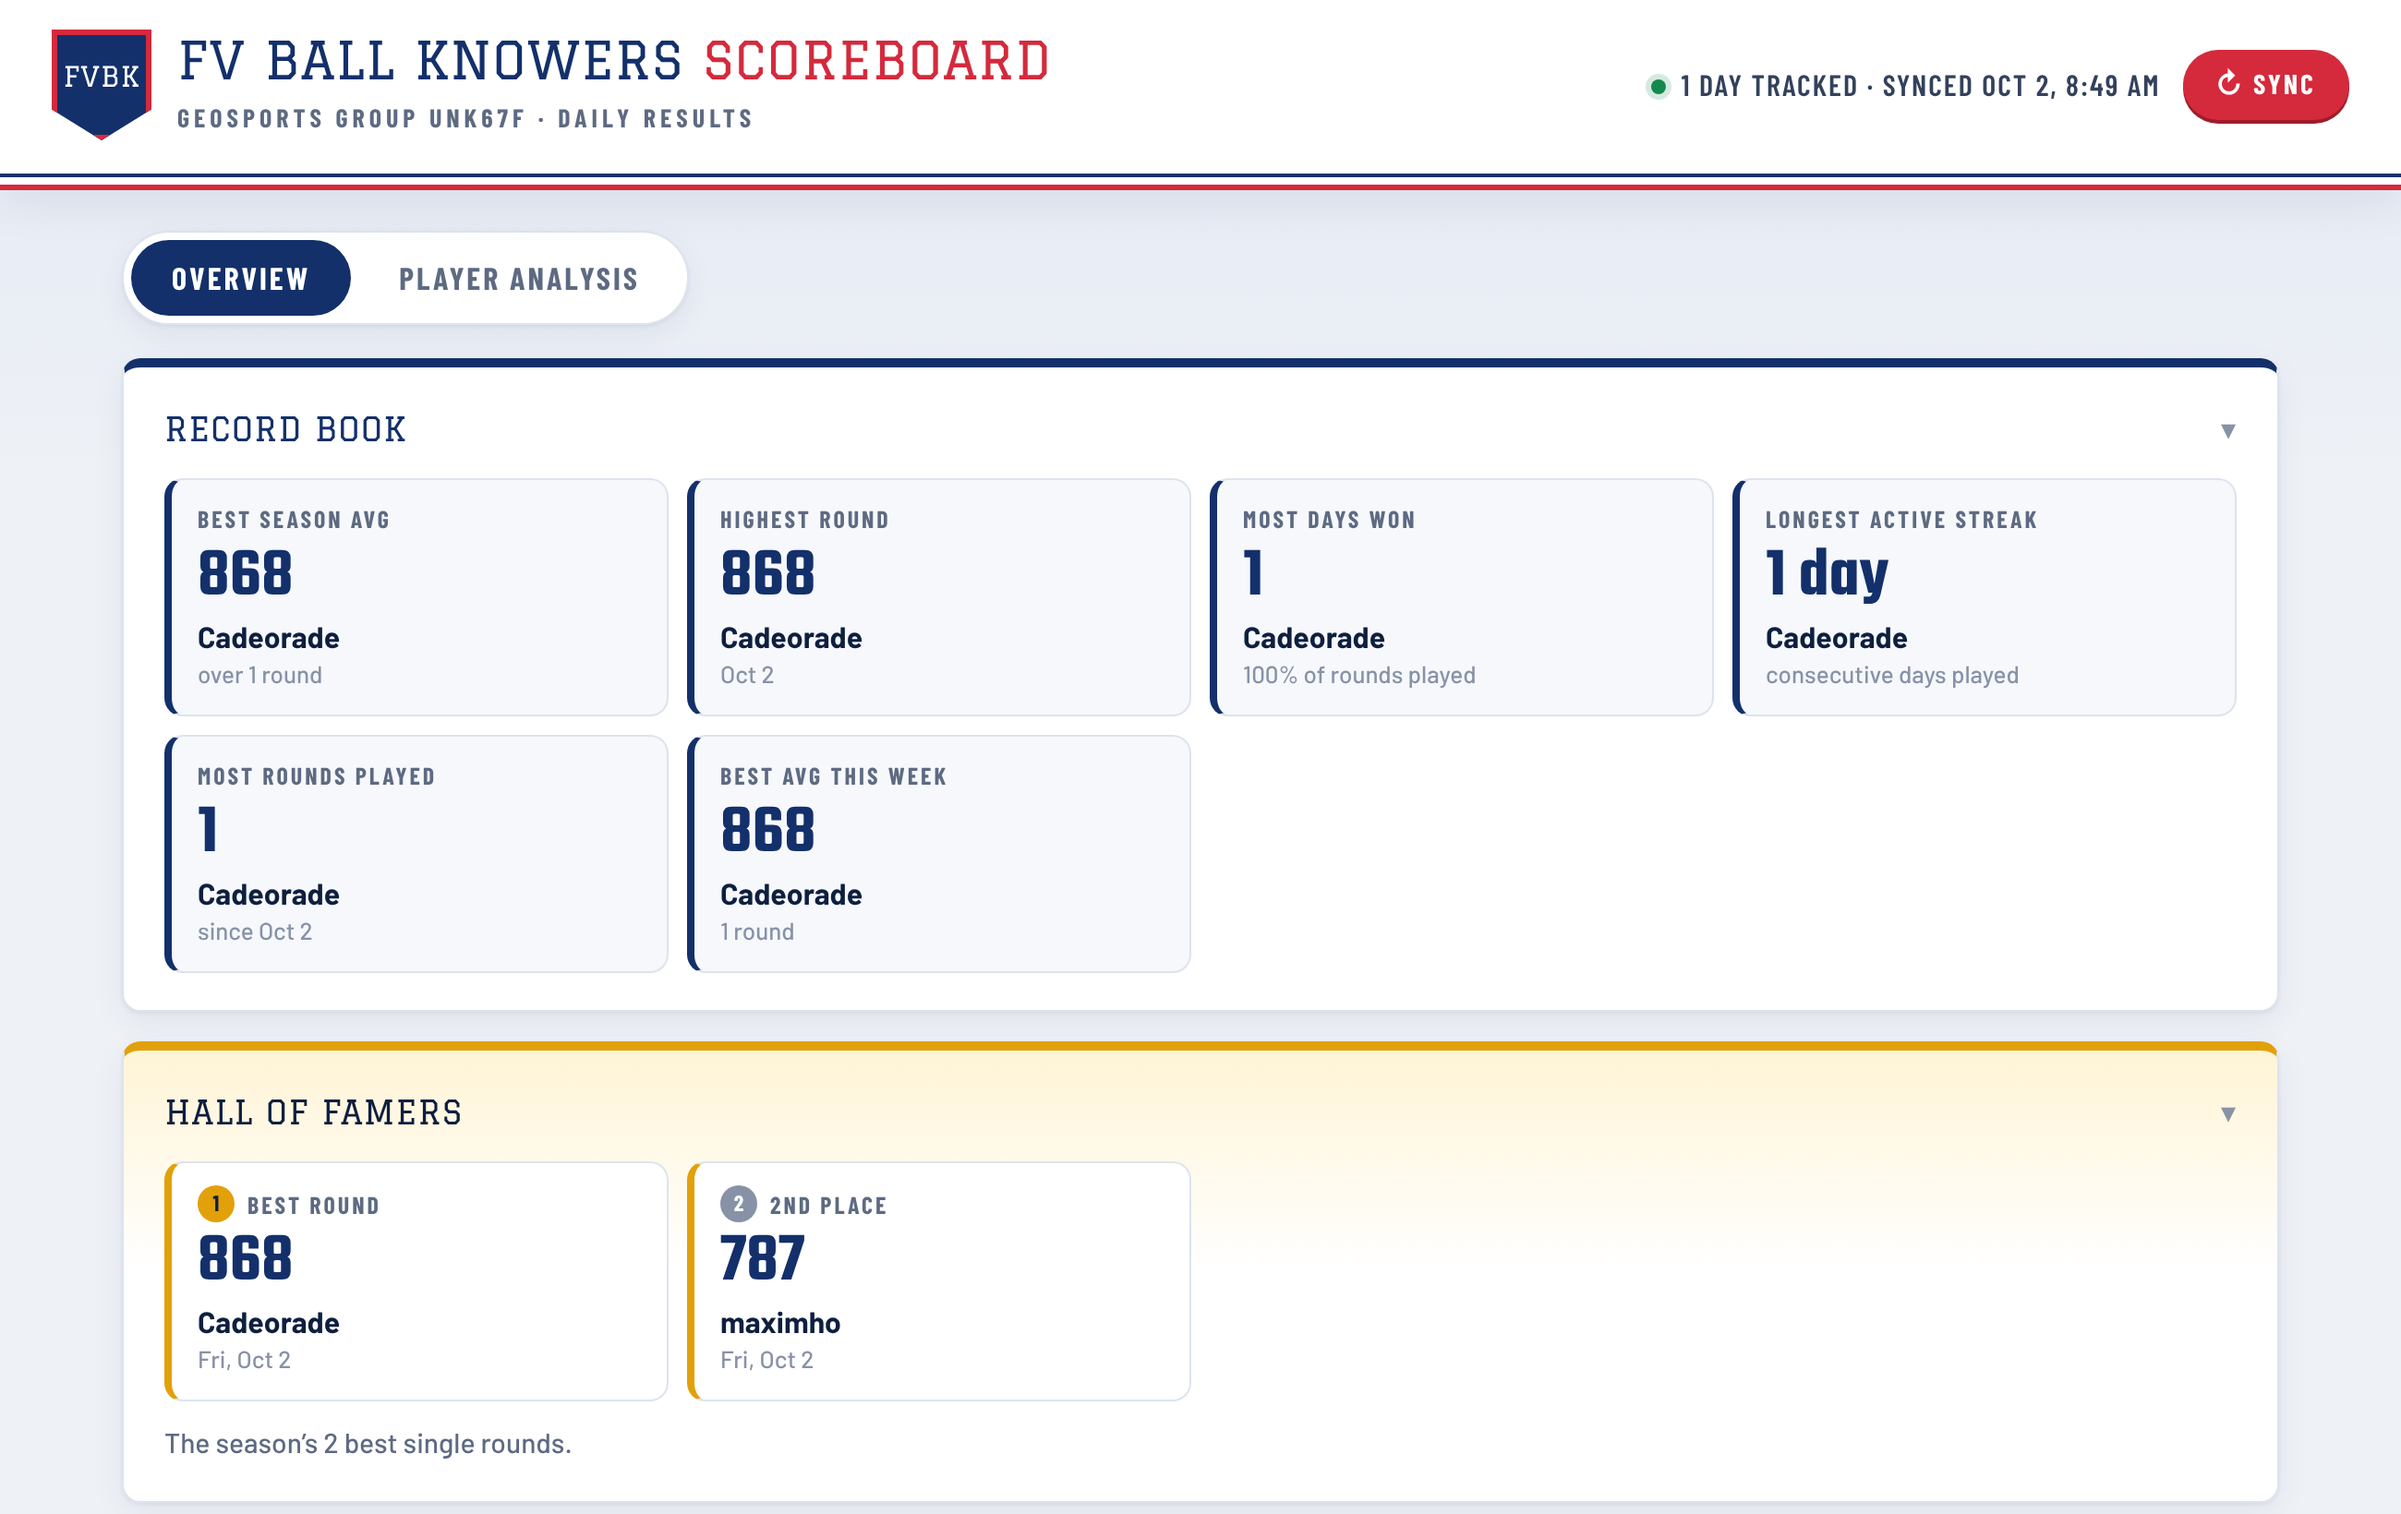
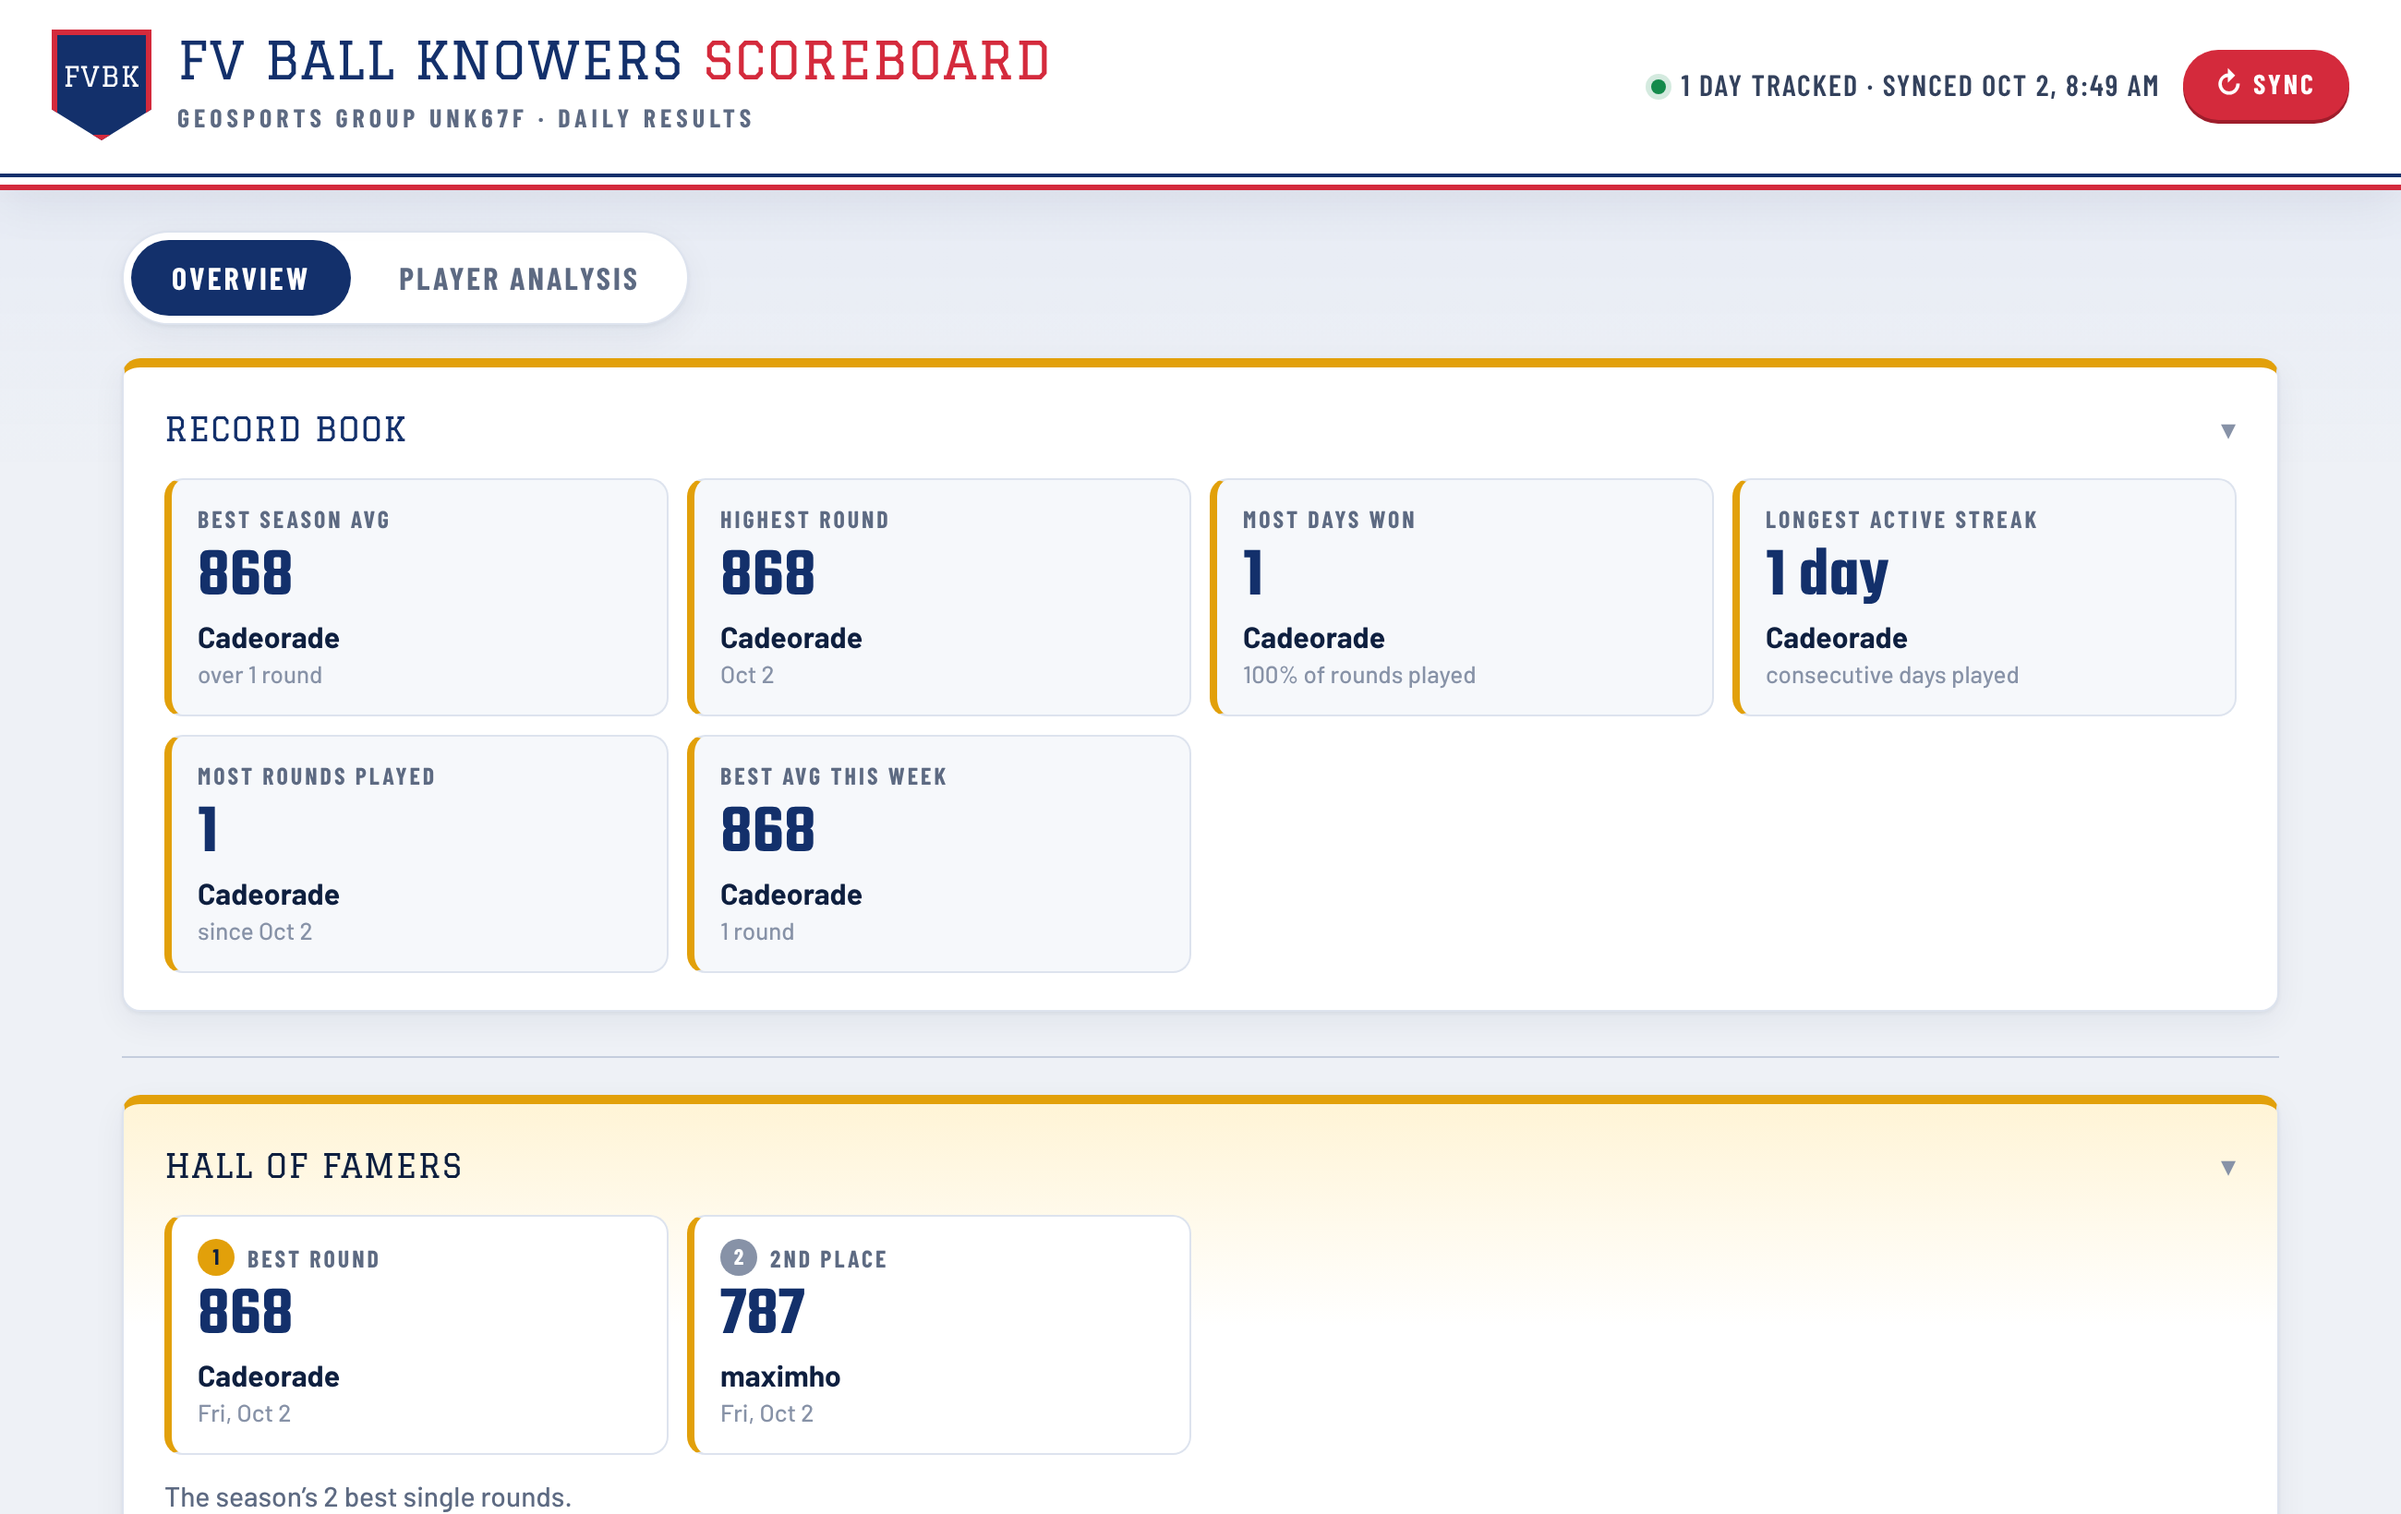
Gold Record Book with divider; remove Highlight Reel & Bloopers

diff --git a/index.html b/index.html
@@ -102,8 +102,9 @@
   .collapsible.collapsed .card-body { display: none; }
   .collapsible .card-body { margin-top: 14px; }
   .collapsible.collapsed { padding-block: 14px; }
-  .bests { border-top: 5px solid var(--navy); }
-  .bests .item { border-left: 4px solid var(--navy); }
+  .bests { border-top: 5px solid var(--gold); }
+  .bests .item { border-left: 4px solid var(--gold); }
+  .exec-rule { border: 0; border-top: 1px solid var(--line-strong); margin: 24px 0 20px; }
   .hof { border-top: 5px solid var(--gold); background: linear-gradient(180deg, var(--gold-soft), var(--panel) 120px); }
   .hof .item { border-left: 4px solid var(--gold); background: var(--panel); }
   .hof .item .val { color: var(--navy); }
@@ -114,8 +115,6 @@
   .hof .item:first-child .place { background: var(--gold); color: var(--ink); }
   .bench .item:first-child .place { background: var(--red); }
   .bests > .card-toggle { color: var(--navy); }
-  .oddities { border-top: 5px solid var(--red); }
-  .oddities > .card-toggle { color: var(--navy); }
 
   .section-title { font-family: var(--font-display); font-size: 24px; font-weight: 400; letter-spacing: 0.5px; color: var(--navy); text-transform: uppercase; margin: 30px 0 6px; text-wrap: balance; }
   .section-title::after { content: ''; display: block; width: 64px; height: 5px; margin-top: 8px; background: linear-gradient(180deg, var(--red) 0 2px, transparent 2px 3px, var(--navy) 3px 5px); }
@@ -144,8 +143,6 @@
 
   .item-grid { display: grid; grid-template-columns: repeat(auto-fill, minmax(220px, 1fr)); gap: 10px; }
   .item { padding: 12px 14px; background: var(--panel-alt); border-color: var(--line); }
-  .oddities .item.trophy { border-left: 4px solid var(--win); }
-  .oddities .item.shame { border-left: 4px solid var(--red); }
   .item .lbl { font-family: var(--font-cond); font-size: 13px; font-weight: 700; letter-spacing: 1.5px; color: var(--muted); text-transform: uppercase; }
   .item .val { font-family: var(--font-num); font-size: 38px; font-weight: 600; color: var(--navy); font-variant-numeric: tabular-nums; line-height: 0.95; margin: 4px 0 2px; overflow-wrap: anywhere; }
   .item .who { color: var(--ink); font-weight: 700; }
@@ -251,7 +248,7 @@
 (function () {
   'use strict';
   const PALETTE = ['#c98a00', '#1f4fd1', '#d42a3c', '#138a4b', '#7c3aed', '#ea580c', '#db2777', '#0e9488'];
-  const S = { meta: null, days: [], tab: 'overview', period: 'week', players: new Set(), range: '30', focus: null, open: { bests: true, hof: true, bench: true, odd: true } };
+  const S = { meta: null, days: [], tab: 'overview', period: 'week', players: new Set(), range: '30', focus: null, open: { bests: true, hof: true, bench: true } };
   const charts = {};
   const $ = (id) => document.getElementById(id);
   const esc = (s) => String(s ?? '').replace(/[&<>"']/g, (c) => ({ '&': '&amp;', '<': '&lt;', '>': '&gt;', '"': '&quot;', "'": '&#39;' }[c]));
@@ -381,13 +378,9 @@
         <button type="button" class="card-toggle" aria-expanded="${S.open.bests}">Record Book</button>
         <div class="card-body"><div class="item-grid">${bests.map(([l, v, w, s]) => `<div class="item"><div class="lbl">${l}</div><div class="val">${v}</div><div class="who">${esc(w)}</div><div class="s">${esc(s)}</div></div>`).join('')}</div></div>
       </section>
+      <hr class="exec-rule">
       ${listSection('hof', 'hof', 'Hall of Famers', top, `The season’s ${nList === 1 ? 'best single round' : nList + ' best single rounds'}.`)}
       ${listSection('bench', 'bench', 'You’re Benched!', bottom, `The season’s ${nList === 1 ? 'worst single round' : nList + ' worst single rounds'}. Tied scores are listed by date, earliest first.`)}
-      <section class="card collapsible oddities${S.open.odd ? '' : ' collapsed'}" data-col="odd">
-        <button type="button" class="card-toggle" aria-expanded="${S.open.odd}">Highlight Reel &amp; Bloopers</button>
-        <div class="card-body"><div class="item-grid">${odd.map(([k, l, v, w, s]) => `<div class="item ${k}"><div class="lbl">${l}</div><div class="val">${v}</div><div class="who">${w}</div><div class="s">${esc(s)}</div></div>`).join('')}</div>
-        <p class="sub" style="margin:12px 0 0">Blowouts and photo finishes wait until a day is over. Hot hand and ice cold need 3+ rounds in the last 7 days.</p></div>
-      </section>
 
       <h2 class="section-title">Season Totals</h2>
       <p class="section-sub">Totals since the season started on ${esc(fmtDate(M.m.start, { month: 'long', day: 'numeric' }))}. Not affected by filters.</p>

diff --git a/README.md b/README.md
@@ -9,9 +9,8 @@ A live scoreboard for my friends' daily [GeoSports](https://geosports.app) games
 ## What it does
 
 **Overview tab**
-- Record Book: best season average, highest round, most days won, longest streak, most rounds played
+- Record Book (the executive summary): best season average, highest round, most days won, longest streak, most rounds played
 - Hall of Famers and You're Benched!: the season's best and worst single rounds
-- Highlight Reel & Bloopers: biggest blowout, photo finish, hot hand, ice cold, wildest swing, players who skipped the week
 - Season totals for the whole group
 - Leaderboard for today, this week, this month and the season, ranked by average like GeoSports does, with a 7-day trend line per player
 - Daily scores chart with player and date-range filters, days-won and current-form charts, and a full daily results table
@@ -35,7 +34,6 @@ GeoSports group ──(refresh)──▶ Google Sheet ──(CSV)──▶ index
 - **Stats:** every average, win, streak and record is calculated in the browser from `Daily Scores`, counting only days from the season start on. Weeks run Monday to Sunday, and a tie for the day's top score counts as a win for each tied player.
 - **Refreshing:** GeoSports shows every member's daily scores for the last 7 days. Each refresh adds new days to the sheet and updates the last 7, so late plays get picked up and older days are never overwritten. As long as a refresh happens at least once a week, no day is lost.
 - **Page:** a single static `index.html` on GitHub Pages. It fetches each tab's CSV export straight from the browser and computes everything client-side, so there's no backend.
-- **Accuracy rules:** blowouts and photo finishes wait until a day is over. Hot hand and ice cold need at least 3 rounds in the last week.
 
 **Stack:** JavaScript · Chart.js · HTML/CSS · Google Sheets · GitHub Pages
 
